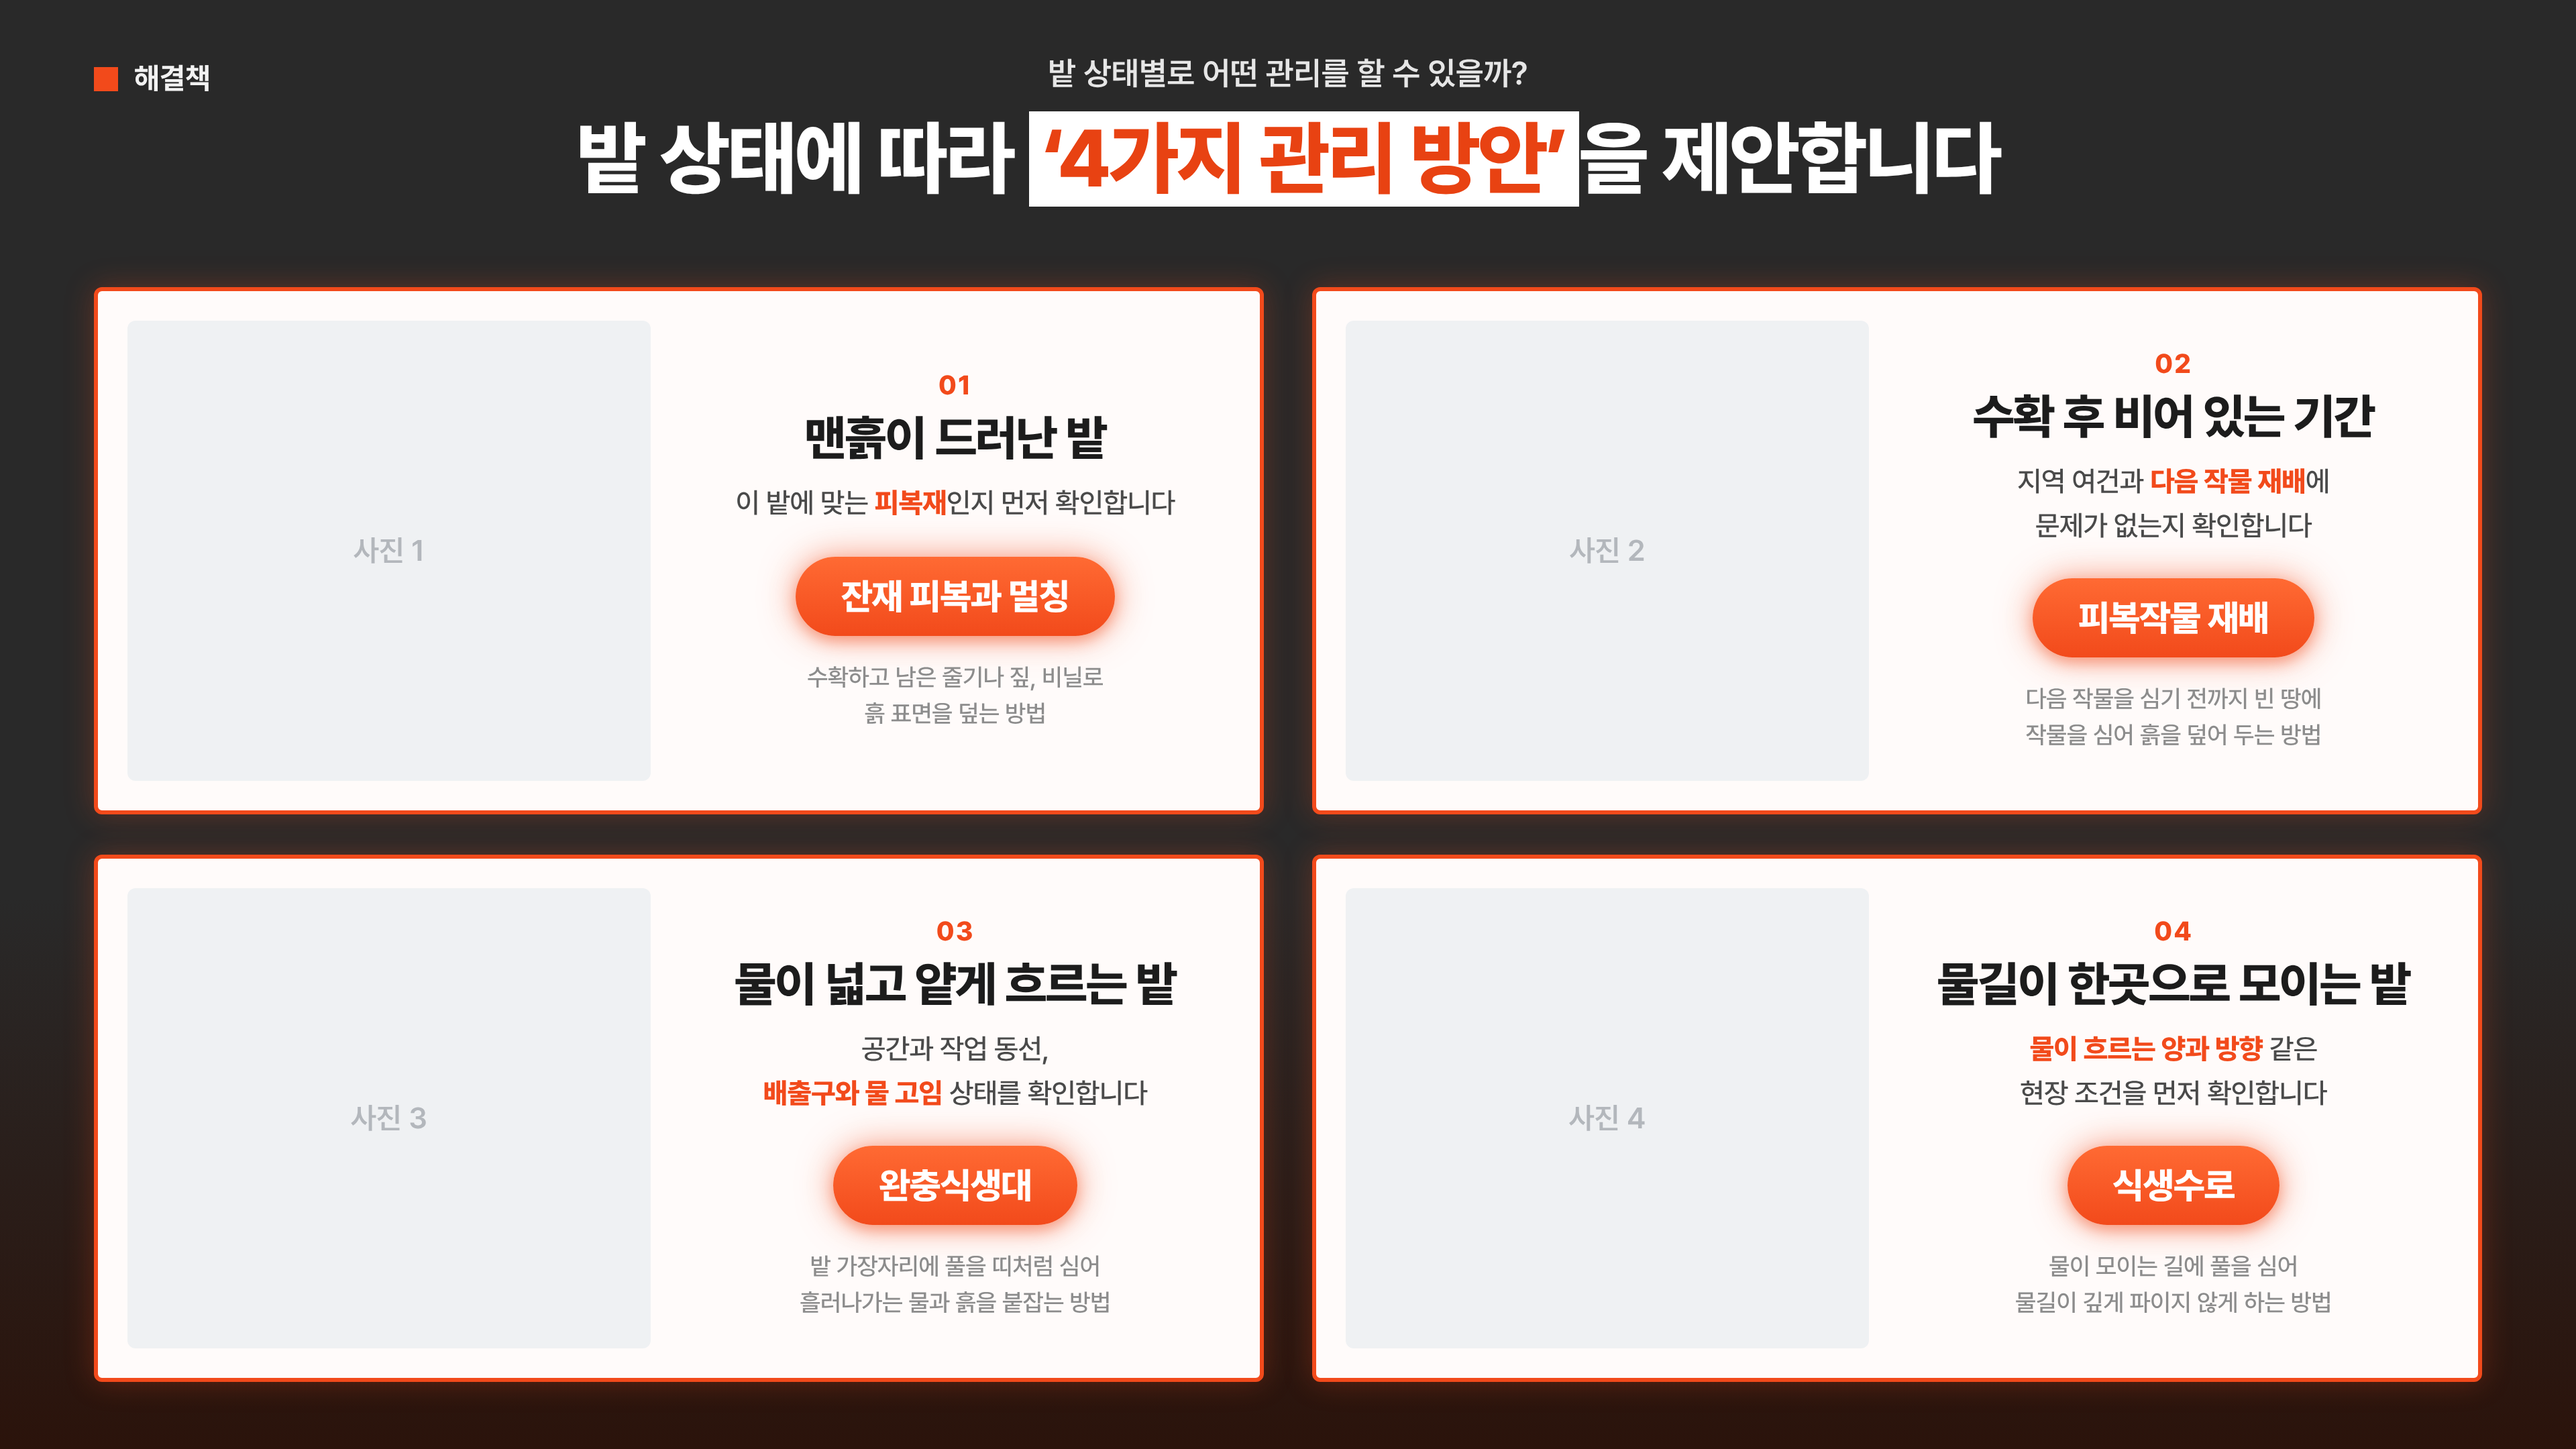
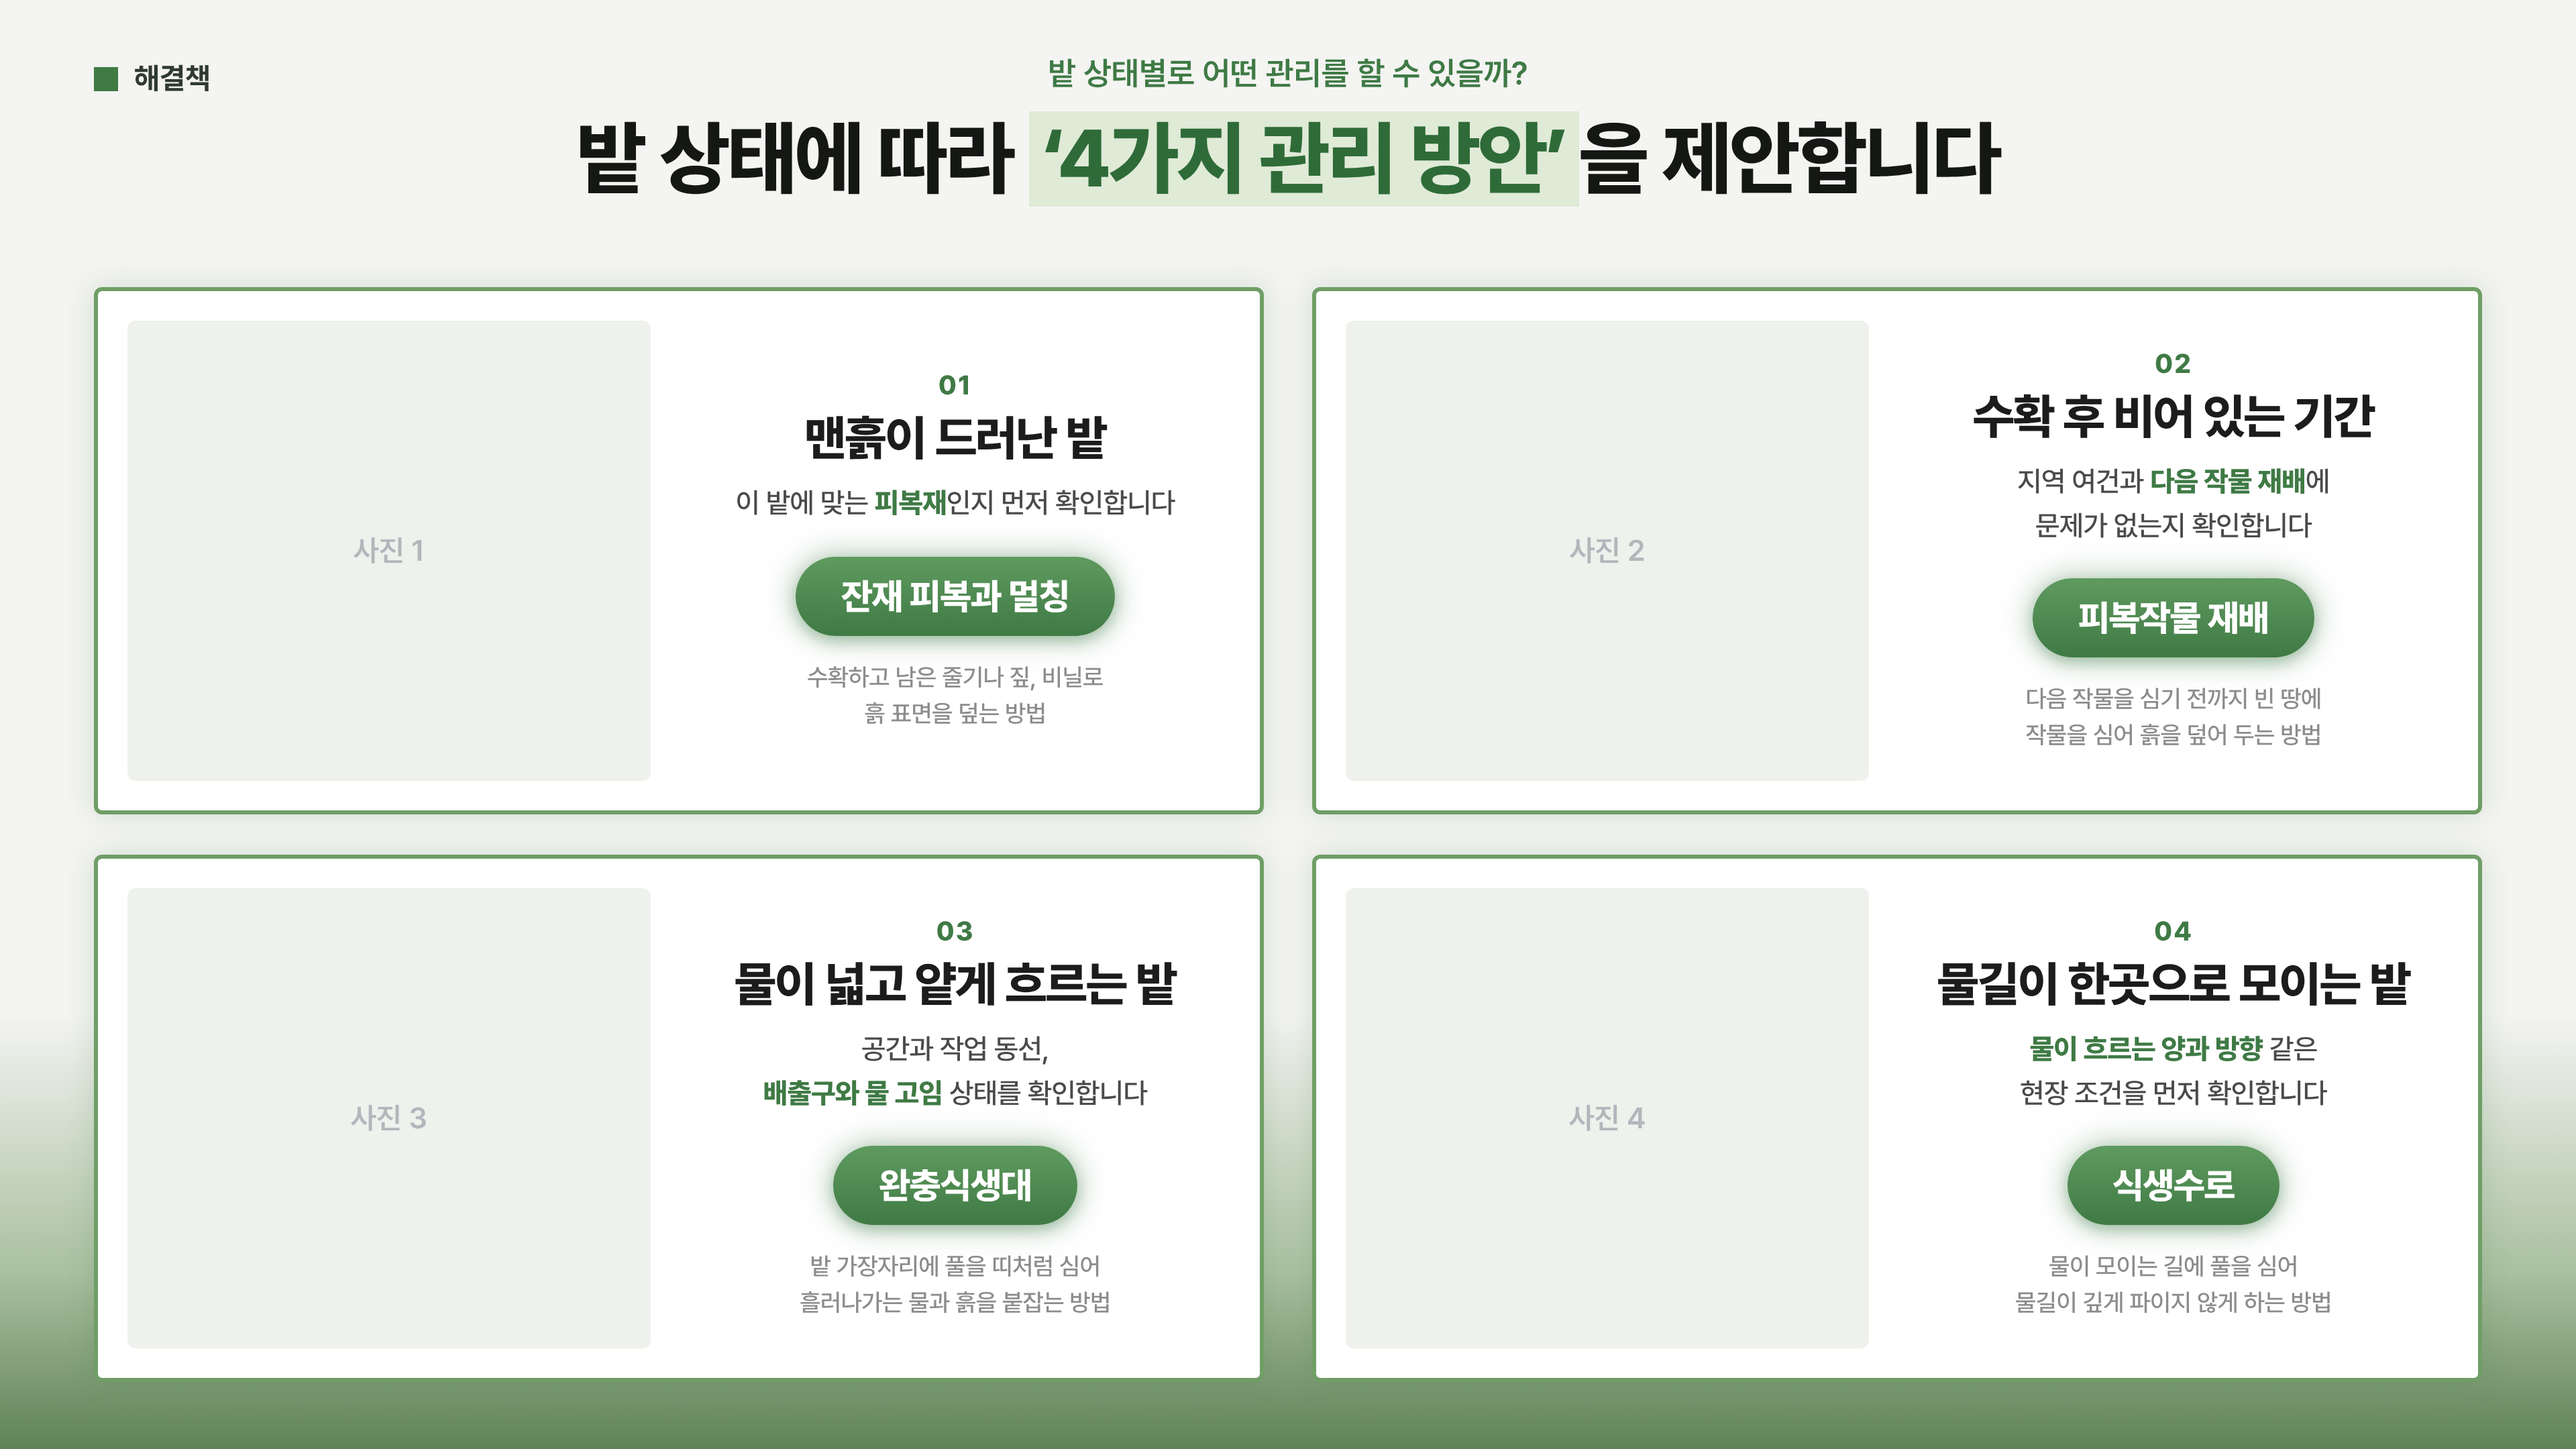
Recolor card-style 2x2 slide to the green deck palette
Claude-Session: https://claude.ai/code/session_01AXtWMuJ4Mn9XoFya2k7XtN

diff --git a/slides/관리방안_4가지/slide_2x2_card.html b/slides/관리방안_4가지/slide_2x2_card.html
@@ -5,12 +5,12 @@
 <title>맞춤 관리 후보</title>
 <style>
   :root {
-    --bg: #292929;
-    --bg-end: #2b130b;
-    --orange: #f24a1b;
-    --orange-2: #ff6a33;
-    --card: #fffbfa;
-    --panel: #eff1f3;
+    --bg: #f4f4f2;
+    --bg-end: #5f8257;
+    --orange: #3f7a45;     /* deck green (accent) */
+    --orange-2: #5f9a5f;
+    --card: #ffffff;
+    --panel: #eef1ec;
     --ink: #1c1c1c;
     --ink-2: #4a4a4a;
     --ink-3: #8c8c8c;
@@ -19,22 +19,22 @@
   html, body { background: var(--bg); }
   body {
     width: 1920px; height: 1080px; overflow: hidden; position: relative;
-    font-family: "Pretendard", system-ui, sans-serif; color: #fff;
+    font-family: "Pretendard", system-ui, sans-serif; color: #151715;
     -webkit-font-smoothing: antialiased; word-break: keep-all;
-    background: linear-gradient(180deg, var(--bg) 0%, var(--bg) 62%, var(--bg-end) 100%);
+    background: linear-gradient(180deg, var(--bg) 0%, var(--bg) 70%, #a9bf9f 88%, var(--bg-end) 100%);
   }
   .sec { position: absolute; top: 46px; left: 70px; display: flex; align-items: center; gap: 12px;
-         font-size: 22px; font-weight: 700; color: #f2f2f2; }
+         font-size: 22px; font-weight: 700; color: #2f3a31; }
   .sec i { width: 18px; height: 18px; background: var(--orange); }
   .head { position: absolute; top: 40px; left: 0; right: 0; text-align: center; }
-  .kicker { font-size: 24px; font-weight: 600; color: #e6e6e6; }
+  .kicker { font-size: 24px; font-weight: 600; color: var(--orange); }
   .title { margin-top: 14px; font-size: 60px; font-weight: 800; letter-spacing: -1.6px; }
-  .title mark { background: #fff; color: #e84212; padding: 0 10px; }
+  .title mark { background: #dfeAd7; color: #2f6b38; padding: 0 10px; }
 
   .grid { position: absolute; left: 70px; right: 70px; top: 214px; bottom: 50px;
           display: grid; grid-template-columns: 1fr 1fr; grid-template-rows: 1fr 1fr; gap: 30px 36px; }
-  .card { background: var(--card); border: 3px solid var(--orange); border-radius: 6px; padding: 22px;
-          display: flex; gap: 28px; box-shadow: 0 0 22px rgba(242,74,27,.28); }
+  .card { background: var(--card); border: 3px solid #6f9e66; border-radius: 6px; padding: 22px;
+          display: flex; gap: 28px; box-shadow: 0 0 22px rgba(63,122,69,.18); }
 
   .panel { position: relative; width: 390px; flex: none; background: var(--panel); border-radius: 6px; overflow: hidden; }
   .panel img { position: absolute; inset: 0; width: 100%; height: 100%; object-fit: cover; }
@@ -48,7 +48,7 @@
   .desc b { color: var(--orange); font-weight: 800; }
   .pill { margin-top: 22px; padding: 13px 34px; border-radius: 999px; color: #fff; font-size: 27px; font-weight: 800;
           letter-spacing: -0.6px; background: linear-gradient(180deg, var(--orange-2), var(--orange));
-          box-shadow: 0 0 26px rgba(242,74,27,.55), 0 4px 10px rgba(242,74,27,.35); }
+          box-shadow: 0 0 24px rgba(63,122,69,.45), 0 4px 10px rgba(63,122,69,.30); }
   .foot { margin-top: 18px; font-size: 18px; font-weight: 500; color: var(--ink-3); letter-spacing: -0.2px; line-height: 1.5; }
 </style>
 </head>
